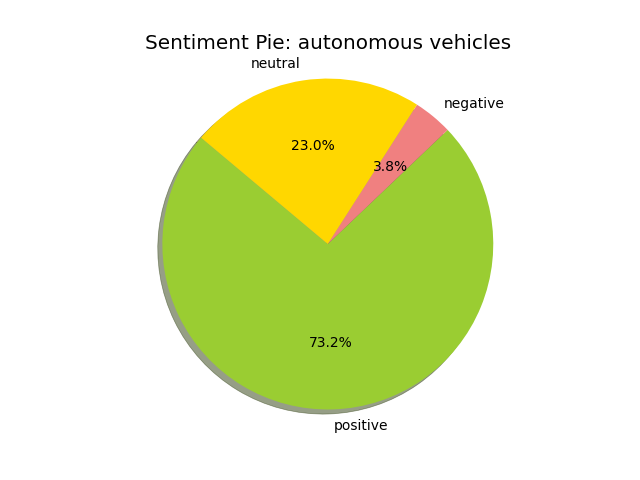
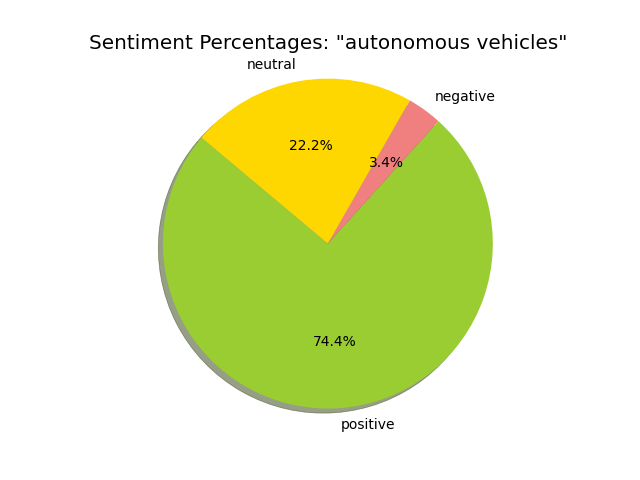
generated more graphs for google doc

diff --git a/twitter_datavis.py b/twitter_datavis.py
@@ -676,7 +676,7 @@ s				> Set Interval
 		autopct='%1.1f%%', shadow=True, startangle=140)
 
 		plt.axis('equal')
-		plt.title(f'Sentiment Pie: {word}', loc='center')
+		plt.title(f'Sentiment Percentages: "{word}"', loc='center')
 		path='output/visuals/wordAnalyzer/'
 		mkdir(path)
 		plt.savefig(f'{path}{word}-pie_chart.png')
